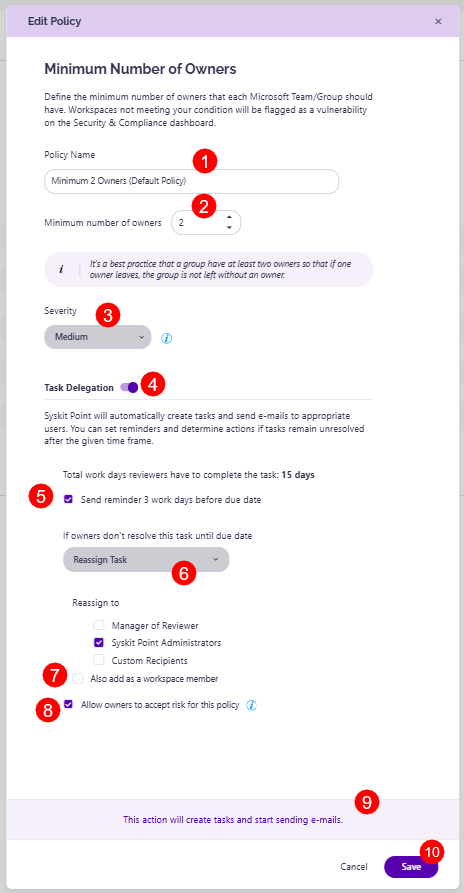
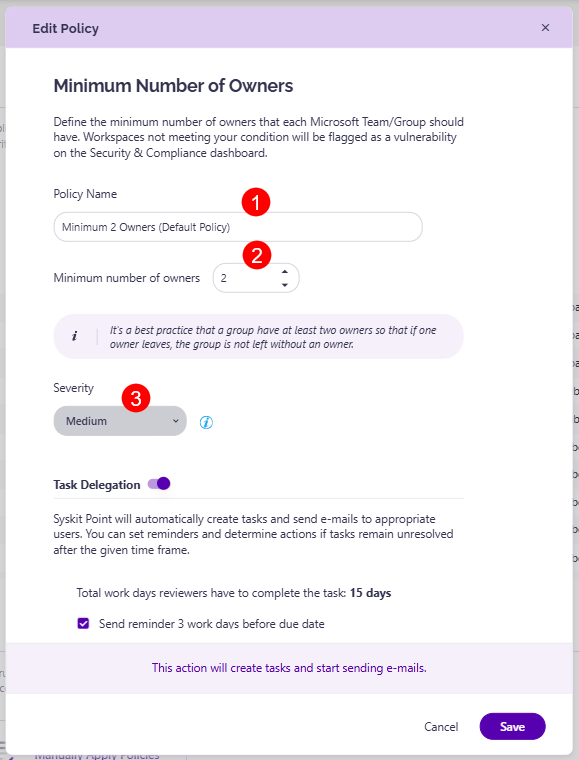
update

diff --git a/governance-and-automation/automated-workflows/minimum-number-of-owners-admin.md b/governance-and-automation/automated-workflows/minimum-number-of-owners-admin.md
@@ -21,6 +21,7 @@ The **Edit Policy** dialog opens where you can:
     * **Perform no Action**; task remains active, and owners can continue to resolve them
     * **Reassign Task**; when selected, you can define who will get the task - **Manager of the Reviewer**, **Syskit Point Administrators**, or **custom recipients**; this option is selected by default, and the tasks are reassigned to Manager of Reviewer; you must define a fallback user in case there is no manager of the reviewer   
       * You can **select the Also add as a workspace member checkbox (7)** there if you want to add this user as a workspace member; selecting this adds the selected user(s) as members to the workspace(s) with the policy assigned in case they are not already members
+        * This option is useful for situations where the reviewer's manager does not have access to the workspace; by providing membership access, the manager can gather more information on the workspace and make an informed decision on the best way to resolve the vulnerability. 
     * **Automatically Archive**; if selected, **Syskit Point will archive Microsoft Teams/Groups** where owners don't resolve the task within 15 workdays
     * **Automatically Delete**; if selected, **Syskit Point will delete Microsoft Teams/Groups** where owners don't resolve the task within 15 workdays
   * **Click the checkbox to allow owners to accept risk for the policy (8)**; the accept risk action excludes this policy from the Security & Compliance check for a specified time period
@@ -29,10 +30,12 @@ The **Edit Policy** dialog opens where you can:
 
 ![Edit Policy Dialog](../../.gitbook/assets/set-up-automated-workflows-min-owners-dialog.png)
 
-{% hint style="info" %}
-**Please note:** By default, the Minimum Number of Owners Orphaned policy vulnerability is detected when less than two active owners are assigned to a workspace. If there are no active owners assigned to a workspace, the [Orphaned Workspaces](orphaned-resources-admin.md) vulnerability is detected instead.
+![Edit Policy Dialog - Task Delegation](../../.gitbook/assets/set-up-automated-workflows-min-owners-dialog-task-delegation.png)
 
-If one owner is assigned to a workspace when resolving the Orphaned Workspaces vulnerability, Syskit Point will detect the Minimum Number of Owners vulnerability.
+{% hint style="info" %}
+**Please note:** By default, the Minimum Number of Owners Orphaned policy vulnerability is detected when less than 2 active owners are assigned to a workspace. If there are no active owners assigned to a workspace, the [Orphaned Workspaces](orphaned-resources-admin.md) vulnerability is detected instead.
+
+If 1 owner is assigned to a workspace when resolving the Orphaned Workspaces vulnerability, Syskit Point will detect the Minimum Number of Owners vulnerability.
 {% endhint %}
 
 For details on how collaborators can [**resolve Minimum Number of Owners policy vulnerability tasks**, navigate to the following article](../../point-collaborators/resolve-governance-tasks/minimum-number-of-owners.md).
